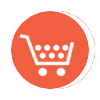
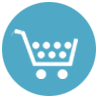
color and design changes

diff --git a/vendor/assets/stylesheets/spree/frontend/cardspage.css.scss b/vendor/assets/stylesheets/spree/frontend/cardspage.css.scss
@@ -81,7 +81,6 @@ html, body {
 {
 	background-color:white;
 	border-radius:6px;
-	color:white;
 	position:absolute;
 	box-shadow:2px 2px 3px #888888;
 	-webkit-transition: all 1s ease;
@@ -92,19 +91,22 @@ html, body {
 .cardinfo
 {
 	word-wrap:break-word;
-	padding:10px;
+	padding-right:10px;
+	padding-left:10px;
+	padding-top:0px;
+	padding-bottom:0px;
 	width:100%;
-	color:black;
 	font-size:12px;
 }
 
 .designer_info{
-	padding:0 10px 10px 10px;
+	border-top:1px solid #D1D1D1;
 	width:100%;
+	padding-top: 5px;
+	padding-bottom:5px;
 }
 
 .cardpanel{
-	padding:10px;
 }
 
 .buyitnow{
@@ -230,7 +232,7 @@ html, body {
 	float:right;
 	margin:10px;
 	margin-right:0;
-	background-color:#F37F66;
+	background-color:#4fa9c6;
 	font-weight:bold;
 	color:white;
 	z-index:100;
@@ -239,7 +241,7 @@ html, body {
 	float:right;
 	margin:10px;
 	margin-right:0;
-	background-color:#F37F66;
+	background-color:#4fa9c6;
 	font-weight:bold;
 	color:white;
 	z-index:100;	
@@ -248,7 +250,7 @@ html, body {
 #userid{
 	float:right;
 	margin:10px;
-	background-color:#F37F66;	
+	background-color:#4fa9c6;	
 	font-weight:bold;
 	color:white;
 }
@@ -445,7 +447,19 @@ html, body {
 	width:338px;
 	float:left;
 }
+.addtocartbtn{
+	background-color:#4fa9c6;
+	width: 348px;
+	color:white;
+	font-weight:bold !important;
+	text-shadow: 1px 1px #666;
+	&:hover{
+		color:white !important;
+		text-shadow: 1px 1px #666;
+		border-color:#54acc7 #4ca0ba #398a9d !important;
 
+	}
+}
 .scroll-left{
 	width:40px;
 	height:100%;
@@ -716,10 +730,11 @@ form{
 }
 .prd-name-card{
 	font-size:14px;
-	
-	color:#333333;
+	color:#333;
 	padding-top:10px;
-	padding-bottom:10px;
+	padding-bottom:5px;
+	padding-left: 5px !important;
+	padding-right:5px !important;
 }
 .prc-card{
 	font-size:16px;
@@ -738,6 +753,6 @@ form{
 	padding-top:5px;
 }
 .short-descrip-card{
-	padding-top:7px;
+	padding-top:2px;
 	color:#666;
 }

diff --git a/app/assets/javascripts/application.js b/app/assets/javascripts/application.js
@@ -12,8 +12,8 @@
 //
 //= require jquery
 //= require bootstrap-sprockets
+//= require jquery.turbolinks
 //= require jquery_ujs
-//= require turbolinks
 //= require spree/frontend/all
 //= require spree/backend/all
 

diff --git a/vendor/assets/javascripts/spree/frontend/all.js b/vendor/assets/javascripts/spree/frontend/all.js
@@ -14,3 +14,4 @@
 //= require_tree .
 
 //= require spree/frontend/spree_reviews
+

diff --git a/app/controllers/spree/solrsearch_controller.rb b/app/controllers/spree/solrsearch_controller.rb
@@ -2,13 +2,9 @@ module Spree
 	class SolrsearchController < Spree::HomeController
 
 		def index
+			@searcher = Spree::Config.searcher_class.new(params[:q])
+			@products = @searcher.retrieve_products
 			
-			@search = Sunspot.search(Spree::Product) do 
-		    	fulltext params[:q]
-                paginate :page => params[:page], :per_page => 8
-		    end
-		    @products = @search.results
-
 		    @search= Sunspot.search(Discover) do
 		    	fulltext params[:q]
 		    end

diff --git a/app/models/spree/Search/solr.rb b/app/models/spree/Search/solr.rb
@@ -2,15 +2,13 @@ module Spree::Search
   class Solr
     attr_accessor :current_user
     attr_accessor :current_currency
- 
+
     def initialize(params)
-      #page = (params[:page].to_i <= 0) ? 1 : params[:page].to_i
       @search_result = Spree::Product.solr_search do
         fulltext params
-       # paginate page: page, per_page: Spree::Config[:products_per_page]
       end
     end
-     
+    
     def retrieve_products
       @search_result.results
     end

diff --git a/config/routes.rb b/config/routes.rb
@@ -28,6 +28,7 @@ Rails.application.routes.draw do
         get '/get_discovers/:id', to: 'categories#get_discovers', as: 'get_discovers'
         get '/modal_info/:id', to: 'products#modal_info', as: 'modal_info'
         get 'get_default_feed', to: 'feeds#get_default_feed', as: 'get_default_feed'
+        get '/search_prod/:id', to: 'products#search_prod', as: 'search_prod'
       end
     end
 

diff --git a/app/models/spree/product_decorator.rb b/app/models/spree/product_decorator.rb
@@ -13,10 +13,10 @@ Spree::Product.class_eval do
     has_many :discovers, through: :product_discovers
 
 	searchable do 
-        text :name, :description, :tag_list
+        text :name, :description
         time :created_at
         #integer :like_no
-        integer :avg_rating
+        #integer :avg_rating
         
         text :designer_names do 
             designer.name

diff --git a/config/initializers/spree.rb b/config/initializers/spree.rb
@@ -10,7 +10,7 @@ Spree.config do |config|
   # Example:
   # Uncomment to stop tracking inventory levels in the application
   # config.track_inventory_levels = false
-  #config.searcher_class = Spree::Search::Solr
+  config.searcher_class = Spree::Search::Solr
 end
 
 Spree::PermittedAttributes.user_attributes << [:first_name, :last_name, :phone, :gender]

diff --git a/app/models/designer.rb b/app/models/designer.rb
@@ -37,7 +37,7 @@ class Designer < ActiveRecord::Base
 	validates :name, presence: true
 	validates :city, presence: true
 	#validates :phonenum, presence: true
-	validates :city, presence: true
+	#validates :city, presence: true
 	validates :about, presence: true
 	
 	has_many :designerreviews

diff --git a/app/controllers/spree/api/v1/products_controller.rb b/app/controllers/spree/api/v1/products_controller.rb
@@ -10,6 +10,13 @@ module Spree
 						format.json
 					end
 				end
+
+				def search_prod
+					@result = Spree::Product.friendly.find(params[:id])
+					respond_to do |format|
+						format.json
+					end
+				end
 			end
 		end
 	end
